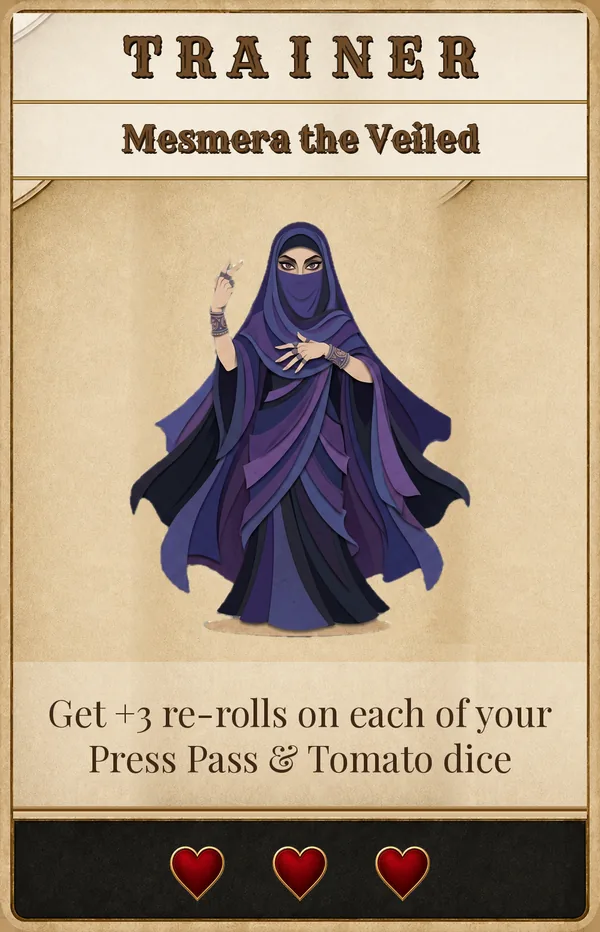
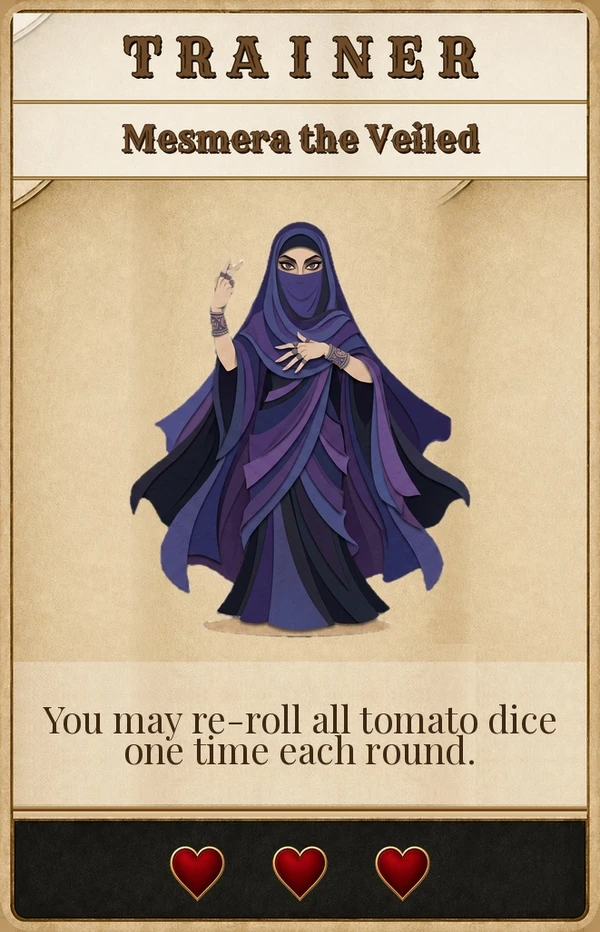
Update Madame Coeur/Mesmera card text; pause dice reveal for human Press Pass decisions
- Madame Coeur and Mesmera the Veiled card art + card_database.json ability
  text updated to match the owner's new wording. The card art was fixed by
  surgically re-rendering just the ability-text band on the existing
  composited card images (illustration/hearts untouched) rather than
  re-running the trainer-card pipeline script, which turned out to lack an
  illustration-paste step and would have wiped the artwork. Also patched the
  two matching card images embedded in the print PDF (The Majestic - All
  Cards Print Sheets.pdf) in place.
- New engine action `lockPressPassDie`: lets the round's active Press Pass
  holder explicitly keep an open Collection Die's result instead of waiting
  out the server's reveal timer.
- Server: scheduleDicePhase now skips its usual auto-lock timer on an open
  Collection Die when a connected human holds the round's Press Pass pool
  with re-rolls left, waiting instead for their usePressPass/lockPressPassDie
  action. Bots and out-of-rerolls holders are unaffected.
- Client: dice tray shows a "Keep this result" button alongside the re-roll
  button for the active human holder, and a "waiting on <name>" hint for
  everyone else while that decision is pending.
- New rules.test.js case covering lockPressPassDie; full suite (34 unit +
  12 full-game) passing.

Changed region(s): [[0.06, 0.7468, 0.93, 0.8712]]

diff --git a/client/src/main.js b/client/src/main.js
@@ -302,6 +302,18 @@ function pressPassUsesLeft(s, p) {
   return d.pressPass.usesLeft;
 }
 
+// Whoever holds the round's active Press Pass pool gets real (unhurried)
+// time to decide on an open Collection Die — the server skips its usual
+// reveal timer for them (see server's scheduleDicePhase). Everyone else sees
+// a waiting note instead of the die silently sitting there.
+function pressPassDecider(s) {
+  const ev = s.dieEvent;
+  const d = s.dice;
+  if (!ev || ev.kind !== 'collection' || ev.source !== 'phase' || !ev.awaitingLock) return null;
+  if (!d || !d.pressPass || d.pressPass.usesLeft <= 0) return null;
+  return s.players[d.pressPass.seat] || null;
+}
+
 // Mesmera the Veiled: proactive re-roll of the whole Tomato batch, available
 // only in the window after the batch is rolled and before it locks.
 function mesmeraReady(s, p) {
@@ -324,8 +336,14 @@ function diceTray(s, p) {
 
   const ppUses = pressPassUsesLeft(s, p);
   const mes = mesmeraReady(s, p);
+  const decider = pressPassDecider(s);
   const reactionHtml = ppUses > 0
-    ? `<div class="dice-reaction"><button id="usePressPassBtn" class="primary">Press Pass — re-roll Die #${ev.position} (${ppUses} left)</button></div>`
+    ? `<div class="dice-reaction">
+         <button id="usePressPassBtn" class="primary">Press Pass — re-roll Die #${ev.position} (${ppUses} left)</button>
+         <button id="lockPressPassBtn">Keep this result</button>
+       </div>`
+    : decider && (!p || decider.seat !== p.seat)
+    ? `<div class="dice-reaction"><span class="hint">Waiting for ${esc(decider.name)} to decide on Die #${ev.position} (Press Pass)…</span></div>`
     : mes
     ? `<div class="dice-reaction"><button id="mesmeraBtn" class="primary">Mesmera: re-roll all Tomato dice</button></div>`
     : d && d.stage === 'tomato' && d.tomatoRolled && !d.tomatoLocked
@@ -698,6 +716,7 @@ function wireGameEvents(s, p, pending) {
     send({ type: 'resolvePending', pendingId: pending.id, assignments });
   });
   document.getElementById('usePressPassBtn')?.addEventListener('click', () => send({ type: 'usePressPass' }));
+  document.getElementById('lockPressPassBtn')?.addEventListener('click', () => send({ type: 'lockPressPassDie' }));
   document.getElementById('mesmeraBtn')?.addEventListener('click', () => send({ type: 'mesmeraRerollTomato' }));
   document.getElementById('pressPassYes')?.addEventListener('click', () =>
     send({ type: 'resolvePending', pendingId: pending.id, use: true })

diff --git a/test/rules.test.js b/test/rules.test.js
@@ -590,6 +590,34 @@ test('Press Pass: offered before the round\'s Collection Dice roll; accepting gr
   assert.equal(s.round, 2, 'the round completed normally once locked');
 });
 
+test('lockPressPassDie: the active Press Pass holder can explicitly keep the open die\'s result', () => {
+  const s = freshGame(2, 555);
+  const seat = currentSeat(s);
+  const other = s.players.find((x) => x.seat !== seat).seat;
+  s.players[other].reserve = ['PressPass-3'];
+  s.players[seat].reserve = [];
+  for (const p of s.players) p.slots = [null, null, null, null, null, null, null, null];
+  const filler = performer((c) => c.resource === 'Coin');
+  s.draftRow = [filler, db.performers[9].id];
+  applyAction(s, { type: 'acquireDraft', seat, cardId: filler });
+  const offer = s.pending.find((x) => x.kind === 'pressPassOffer');
+  applyAction(s, { type: 'resolvePending', seat: other, pendingId: offer.id, use: true });
+
+  // Only the active holder may confirm; nobody else, and not while nothing's open.
+  assert.throws(() => applyAction(s, { type: 'lockPressPassDie', seat }));
+
+  assert.ok(s.dieEvent.awaitingLock, 'die #1 is open, awaiting a decision');
+  applyAction(s, { type: 'lockPressPassDie', seat: other });
+  // Locking resolves die #1 immediately (advance() then rolls die #2, which
+  // opens its own fresh awaitingLock window — that's the normal dice-phase
+  // pause, not a sign #1 failed to lock).
+  assert.equal(s.dice.rolled, 1, 'die #1 resolved and was recorded');
+  assert.equal(s.dice.pressPass.usesLeft, 3, 'no re-roll was spent by keeping the result');
+
+  driveDicePhase(s);
+  assert.equal(s.round, 2, 'the round completed normally afterward');
+});
+
 test('Press Pass priority: the highest-numbered card is offered first; declining moves to the next', () => {
   const s = freshGame(2, 777);
   const seat = currentSeat(s);

diff --git a/engine/engine.js b/engine/engine.js
@@ -931,6 +931,21 @@ export function applyAction(state, action) {
       log(state, `${p.name} spends a Press Pass re-roll on Die #${ev.position}: ${ev.value} (${d.pressPass.usesLeft} re-roll${d.pressPass.usesLeft === 1 ? '' : 's'} left this round).`);
       break;
     }
+    // Explicit "I'm done deciding" from the round's active Press Pass holder:
+    // keep the die's current result and let it lock immediately, instead of
+    // waiting out the server's reveal timer. Only meaningful for a human —
+    // bots decide synchronously — but legal any time the die is open, even
+    // with 0 uses left, so the client's "keep this result" button always works.
+    case 'lockPressPassDie': {
+      const ev = state.dieEvent;
+      if (!ev || ev.kind !== 'collection' || ev.source !== 'phase' || !ev.awaitingLock) {
+        throw new Error('No Collection Die is open right now.');
+      }
+      const d = state.dice;
+      if (!d.pressPass || d.pressPass.seat !== seat) throw new Error('You have no active Press Pass this round.');
+      ev.awaitingLock = false; // applyAction's own advance() call (below) resolves it from here
+      break;
+    }
     // Mesmera the Veiled: once the round's whole Tomato batch is rolled but
     // not yet locked in, her owner may choose to re-roll the entire batch
     // one time. Proactive, once per round.

diff --git a/server/index.js b/server/index.js
@@ -157,6 +157,16 @@ function scheduleDicePhase(room) {
   const ev = state.dieEvent;
   if (ev && ev.awaitingLock) {
     autoResolveBotDiceReactions(room);
+    // If a connected human holds this round's Press Pass pool and still has
+    // a re-roll left, give them real time to decide instead of auto-locking
+    // on a timer — they either spend a re-roll (usePressPass) or confirm
+    // they're keeping this result (lockPressPassDie). Either action goes
+    // through the normal 'action' handler, which calls scheduleDicePhase
+    // again afterward, so the reveal continues the moment they decide.
+    const pp = state.dice.pressPass;
+    const ppSeat = pp ? room.seats[pp.seat] : null;
+    const humanIsDeciding = pp && pp.usesLeft > 0 && ppSeat && !ppSeat.isBot && ppSeat.socketId;
+    if (humanIsDeciding) return;
     room.diceTimer = setTimeout(() => {
       room.diceTimer = null;
       lockCollectionDie(state);

diff --git a/DESIGN_BRIEF.md b/DESIGN_BRIEF.md
@@ -50,7 +50,7 @@ Build the most legendary troupe of performers by earning Trophies. First to the 
    - Play continues around the draft-order stands, looping, until only 1 card remains face-up in the draft row — discard that last card, and the draft phase ends. (Players usually get ~2 turns/round, but can get more by spending Favor cards for extra turns, or fewer if they spent turns buying/rearranging instead of drafting.)
 3. **Dice phase:**
    - **Before any Collection Die rolls, offer the round's Press Pass.** If any player holds a Press Pass in reserve, the highest-numbered one is offered first (a genuine yes/no decision, not a proactive click): spend it now, or keep it for a later round? Only one Press Pass total may be spent per round — if the highest-numbered holder declines, the next-highest is offered, and so on. Accepting spends the card immediately and grants that player a pool of re-rolls (equal to the card's printed number) usable on any of the round's 5 Collection Dice, any time one is open.
-   - **Roll all 5 Collection Dice, one at a time, revealed live.** Each die is rolled, shown on screen, and left visible before the next one rolls — building up a row of 5 — so spectators can actually watch the round unfold; a live table of each player's resources earned so far this round updates as each die locks in. Between the moment a die is rolled and the moment it locks, the round's active Press Pass holder (if any) may spend one or more re-rolls from their pool on it — including several in a row on the same stubborn die — before it locks. For each die result (a letter A-H) once locked, every player who has a Performer on their mat with that Letter collects: if that performer's printed resource is Star or Coin, place the token on the player's central token pool (not on the card); if it's a Heart, immediately assign it to any of that player's starter or reserve cards up to that card's max heart capacity.
+   - **Roll all 5 Collection Dice, one at a time, revealed live.** Each die is rolled, shown on screen, and left visible before the next one rolls — building up a row of 5 — so spectators can actually watch the round unfold; a live table of each player's resources earned so far this round updates as each die locks in. Between the moment a die is rolled and the moment it locks, the round's active Press Pass holder (if any) may spend one or more re-rolls from their pool on it — including several in a row on the same stubborn die — before it locks. If that holder is a connected human, the server does not auto-lock the die on its usual short reveal timer — it waits for them to either spend another re-roll or explicitly confirm they're keeping the current result (a "Keep this result" action), so they always get real time to decide; other players see a "waiting on so-and-so" note in the meantime. Bots (and a human holder who's already out of re-rolls) still lock in on the normal timer. For each die result (a letter A-H) once locked, every player who has a Performer on their mat with that Letter collects: if that performer's printed resource is Star or Coin, place the token on the player's central token pool (not on the card); if it's a Heart, immediately assign it to any of that player's starter or reserve cards up to that card's max heart capacity.
    - **Assign the Trophy:** whoever earned the most Stars this round takes a Trophy token. Tie → most Coins overall (each tied player's total/career coin count, not just coins earned this round) wins it. Still tied → all tied players take a Trophy. The trophy winner(s) must then remove 1 heart from each of their "starters" (their 8 mat-slot cards — Performers, Backdrop, Prop, and Trainer — see "Rules the written doc left open" for why this includes non-Performer slots). Do not refill empty slots yet.
    - **Assign new Draft Order:** fewest Stars this round → stand "1" (goes first next round). Next fewest → stand "2", etc. Tie → fewer Coins gets the better (lower) stand. Still tied → fewer total Trophies gets the better stand. Still tied → roll-off.
    - **Roll Tomato dice, as one batch.** Roll a number of D8 Tomato dice equal to the current round number (round 1 = 1 die, round 2 = 2 dice, etc), all at once, and leave the whole batch visible before it locks. Between the roll and the lock, if the round's Mesmera the Veiled holder wants to, they may re-roll the entire batch once (see the Trainer table below). Once locked, for every rolled number 1-8, every player removes 1 heart from whatever currently occupies that slot number on their own mat. Every card also survives the hit that brings it to 0 printed hearts (per the owner's ruling) — reaching 0 hearts does not, by itself, discard a card. Only the *next* hit taken while a card is already at 0 hearts actually discards it. So a 1-heart card takes exactly 2 hits total to leave the stage, and a card that starts at 0 printed hearts discards on its very first hit. This applies to both Tomato-die hits and trophy-winner heart removal above.
@@ -72,7 +72,7 @@ First to reach the Trophy threshold wins: 4-5 players → 3 Trophies. 2-3 player
 
 | Trainer | Ability |
 |---|---|
-| Madame Coeur | Any card you draft or place onto your board starts at its printed maximum heart count instead of its normal starting-heart value. (Does not change the card's printed capacity — just its starting fill.) |
+| Madame Coeur | "Your acquired cards start with all hearts filled in." Any card you draft or place onto your board starts at its printed maximum heart count instead of its normal starting-heart value. (Does not change the card's printed capacity — just its starting fill.) |
 | Tomasso the Terrible | Discard 1 card from the draft row to trigger an extra Tomato die roll immediately; the resulting heart loss applies to every OTHER player's board, not yours. Per the owner's ruling, using this ability consumes the player's entire turn — same as any other main action, no drafting/buying/rearranging afterward. |
 | Madame Curio | Discard 1 card from the draft row to trigger an extra Collection Die roll immediately; only you collect from it, other players' matching performers do not. Consumes the player's entire turn, same as Tomasso. |
 | Professor Stainglass | Discard 1 card from the draft row to draw the top card of the deck directly into your reserve. Consumes the player's entire turn, same as Tomasso. |
@@ -80,7 +80,7 @@ First to reach the Trophy threshold wins: 4-5 players → 3 Trophies. 2-3 player
 | Barnaby Pennywhistle | All market purchase costs are reduced by 1 coin (minimum 1); does not reduce the 1-coin market-reset cost. |
 | Madame Barre | When placing an acquired card, you may put it in any mat slot regardless of normal type restrictions (e.g. a Performer could occupy... — use judgment: at minimum, this should let the player freely choose which of their 5 Performer slots a new Performer goes into, and freely reorder existing board cards, rather than being locked to a fixed slot-fill order). |
 | Maximillian the Magnate | You may acquire any number of cards from the market in a single turn (normally 1 acquire = 1 turn). |
-| Mesmera the Veiled | After the round's Tomato dice batch is rolled (but before it locks in), you may choose to re-roll the entire batch one time, keeping the new results. |
+| Mesmera the Veiled | "You may re-roll all tomato dice one time each round." After the round's Tomato dice batch is rolled (but before it locks in), you may choose to re-roll the entire batch one time, keeping the new results. |
 | The Vanishing Valentino | Once per game, you may spend your turn to discard this Trainer card from your own board, which discards every card currently in the draft row (they're replaced next round as normal). You permanently lose your Trainer slot's benefit for the rest of the game after doing this. |
 
 ## Rules the written doc left open — documented assumptions
@@ -101,7 +101,7 @@ Please flag any of these 5 in the README as "assumptions made — confirm with T
 
 ## AI bot behavior guidance
 
-Doesn't need to be optimal, just legal and coherent. Reasonable heuristics: prefer free draft picks that fill an empty mat slot over ones that would bump a card to reserve; weight Performers by matching resource type to whichever resource the bot is behind on; weight Star resource cards heavily (especially the 3-star one) since Stars earned *this round* directly decide the round's Trophy — a single card can flip the outcome, more so the further behind the bot is on round-stars; use Favor cards for extra turns when available rather than hoarding (and may spend more than one eligible Favor before its main action in the same turn window); accept the pre-roll Press Pass offer whenever the bot has any Performers on board (little downside to holding the option open otherwise), then spend re-rolls from the pool (possibly several in a row on the same die) when the current die is a dead roll and the bot's board has enough letter variety that a re-roll probably helps; use Mesmera's Tomato-batch re-roll only when the current batch threatens one of the bot's own cards; otherwise acquire the highest-value card available for free before considering a market purchase. The engine itself resolves bot decisions instantly (no artificial "thinking" delay) so games never stall — but per the owner's request, the server paces the *broadcast* of a bot's moves: 2 seconds after a bot fully completes a turn before the next bot acts, and (during the dice phase) each Collection Die and the Tomato batch is held on screen briefly — long enough for any bot's Press Pass/Mesmera reaction to resolve first — before locking in and moving to the next step, so human spectators/players can actually watch the round unfold.
+Doesn't need to be optimal, just legal and coherent. Reasonable heuristics: prefer free draft picks that fill an empty mat slot over ones that would bump a card to reserve; weight Performers by matching resource type to whichever resource the bot is behind on; weight Star resource cards heavily (especially the 3-star one) since Stars earned *this round* directly decide the round's Trophy — a single card can flip the outcome, more so the further behind the bot is on round-stars; use Favor cards for extra turns when available rather than hoarding (and may spend more than one eligible Favor before its main action in the same turn window); accept the pre-roll Press Pass offer whenever the bot has any Performers on board (little downside to holding the option open otherwise), then spend re-rolls from the pool (possibly several in a row on the same die) when the current die is a dead roll and the bot's board has enough letter variety that a re-roll probably helps; use Mesmera's Tomato-batch re-roll only when the current batch threatens one of the bot's own cards; otherwise acquire the highest-value card available for free before considering a market purchase. The engine itself resolves bot decisions instantly (no artificial "thinking" delay) so games never stall — but per the owner's request, the server paces the *broadcast* of a bot's moves: 2 seconds after a bot fully completes a turn before the next bot acts, and (during the dice phase) each Collection Die and the Tomato batch is held on screen briefly — long enough for any bot's Press Pass/Mesmera reaction to resolve first — before locking in and moving to the next step, so human spectators/players can actually watch the round unfold. The one exception to that timer: if a connected human (not a bot) holds the round's active Press Pass pool with re-rolls still left, the server skips the timer entirely on that die and just waits for their `usePressPass` or `lockPressPassDie` action, so they're never rushed into losing a decision window to the clock.
 
 ## Deliverable location
 

diff --git a/README.md b/README.md
@@ -52,7 +52,7 @@ npm start          # serves game + client together on http://localhost:3000
 npm test
 ```
 
-- `test/rules.test.js` — 32 unit-level engine checks (setup, market, every
+- `test/rules.test.js` — 34 unit-level engine checks (setup, market, every
   notable Trainer ability, favors, Press Pass/Mesmera re-rolls, rearranging,
   a deterministic dice phase, card conservation).
 - `test/fullgame.test.js` — 12 complete AI-only games (2–5 players × 3 seeds
@@ -131,7 +131,10 @@ the engine if any is wrong:
    that round. Card heart loss was also clarified: a card survives the hit
    that brings it to 0 hearts, then discards on the very next hit taken
    while already at 0 — not two more hits, as an earlier build mistakenly
-   implemented.
+   implemented. If a connected human holds the round's Press Pass pool with
+   re-rolls left, the server also skips its usual reveal timer on the open
+   Collection Die and waits for their explicit re-roll or "keep this result"
+   action instead, so they're never rushed by the clock.
 
 ## Project layout
 
